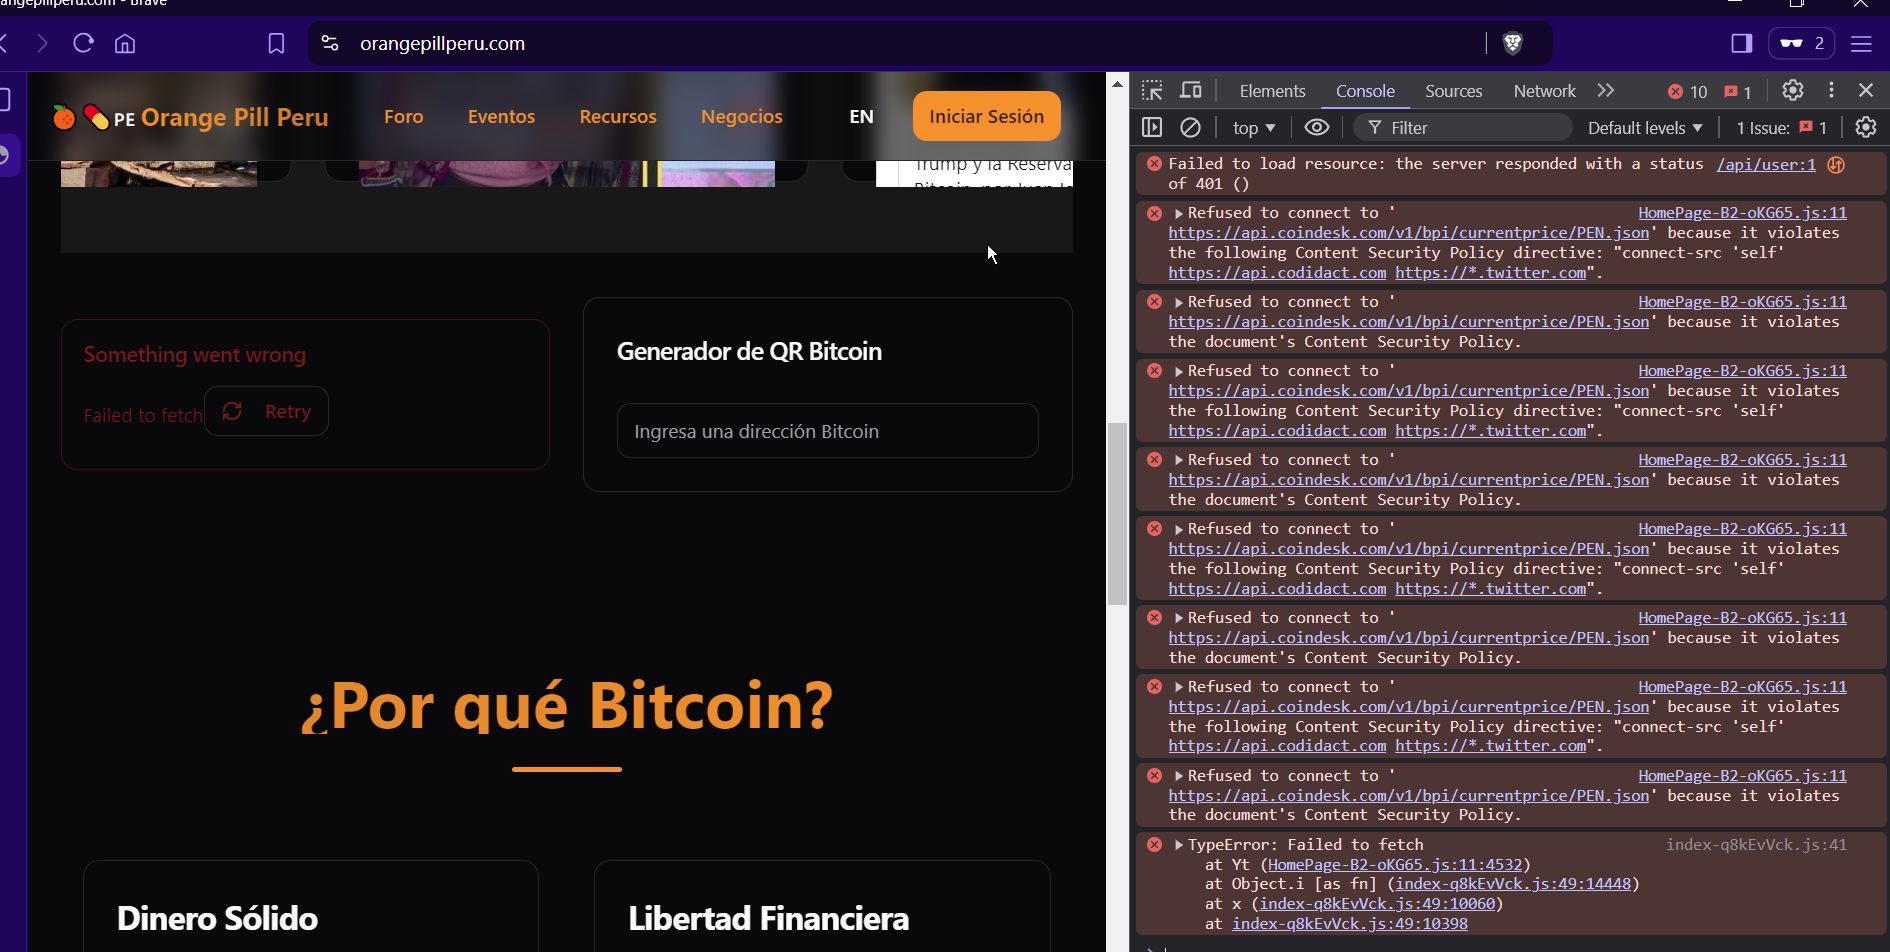
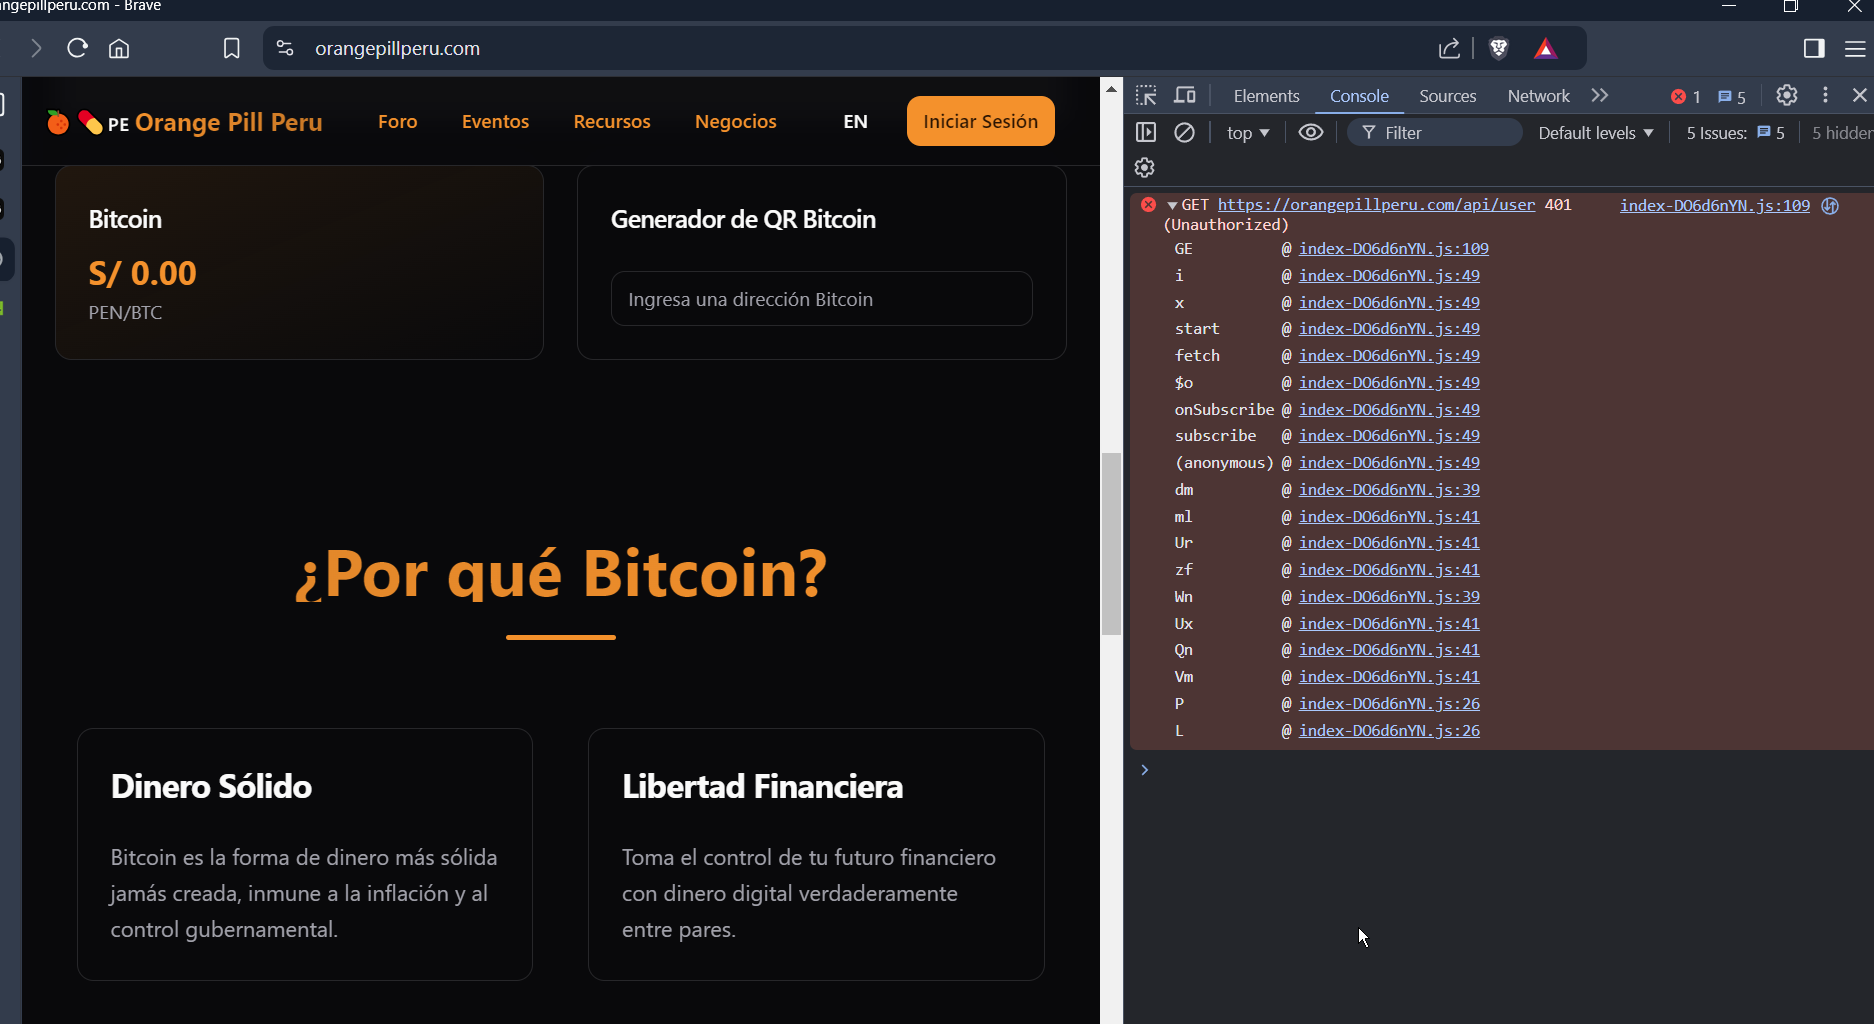
Agent query: Is the Bitcoin price now displaying correctly in PEN currency with proper formatting?

diff --git a/client/src/components/PriceDisplay.tsx b/client/src/components/PriceDisplay.tsx
@@ -4,18 +4,38 @@ import { Card, CardContent, CardHeader, CardTitle } from "@/components/ui/card";
 import { Loader2 } from "lucide-react";
 
 async function fetchBitcoinPrice() {
-  const response = await fetch('https://api.coingecko.com/api/v3/simple/price?ids=bitcoin&vs_currencies=pen');
-  if (!response.ok) {
-    throw new Error('Failed to fetch Bitcoin price');
+  try {
+    const response = await fetch('https://api.coingecko.com/api/v3/simple/price?ids=bitcoin&vs_currencies=pen', {
+      headers: {
+        'Accept': 'application/json',
+        'Content-Type': 'application/json'
+      }
+    });
+    
+    if (!response.ok) {
+      throw new Error(`Failed to fetch Bitcoin price: ${response.status}`);
+    }
+
+    const data = await response.json();
+    if (!data?.bitcoin?.pen) {
+      throw new Error('Invalid price data format');
+    }
+
+    return data;
+  } catch (error) {
+    console.error('Error fetching Bitcoin price:', error);
+    throw error;
   }
-  return response.json();
 }
 
-function PriceContent({ data }: { data: any }) {
-  const penPrice = (data?.bitcoin?.pen || 0).toLocaleString('es-PE', {
+function PriceContent({ data }: { data: { bitcoin: { pen: number } } }) {
+  const price = data?.bitcoin?.pen;
+  const penPrice = price ? price.toLocaleString('es-PE', {
     style: 'currency',
-    currency: 'PEN'
-  });
+    currency: 'PEN',
+    minimumFractionDigits: 2,
+    maximumFractionDigits: 2
+  }) : 'Cargando...';
 
   return (
     <Card className="bg-gradient-to-br from-primary/10 via-primary/5 to-transparent">
